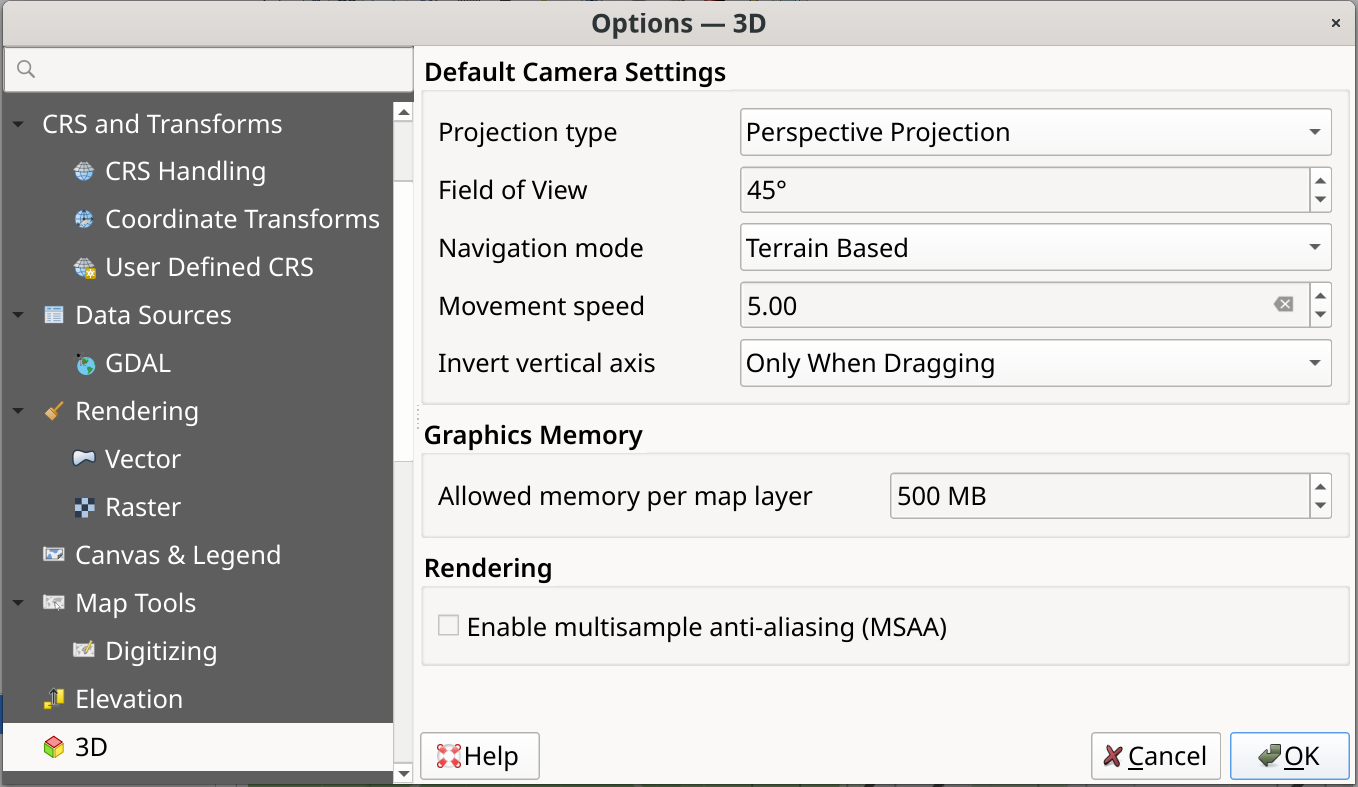
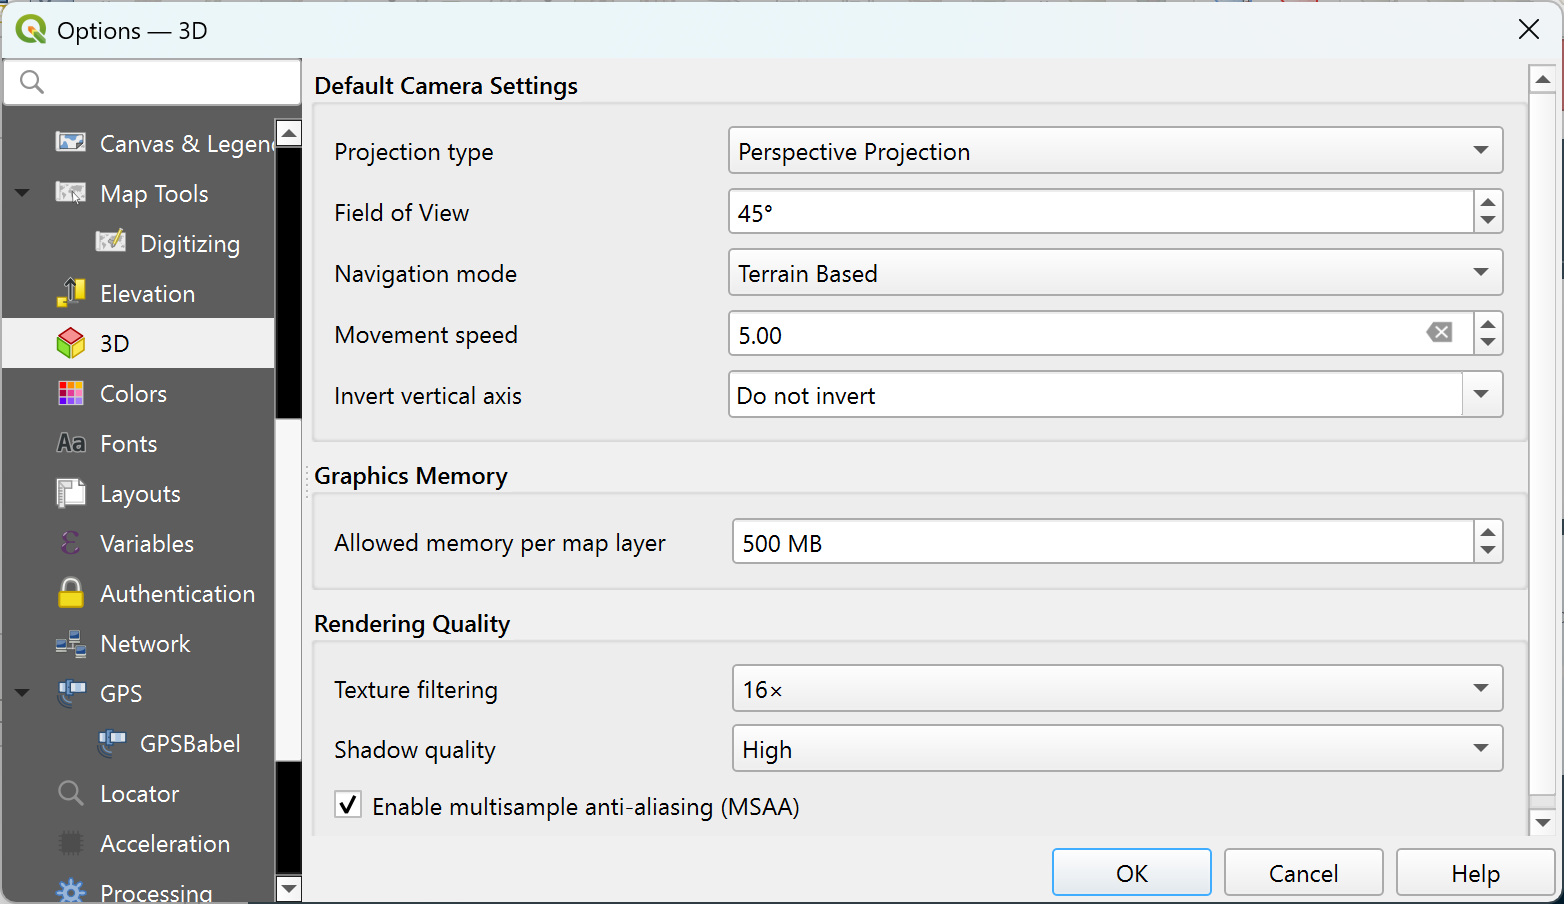
invert vertical axis new scenario

Changed region(s): [[0.0, 0.0, 1.0, 1.0], [0.3402, 0.7319, 0.7113, 0.8539]]

diff --git a/docs/user_manual/introduction/qgis_configuration.rst b/docs/user_manual/introduction/qgis_configuration.rst
@@ -1065,15 +1065,21 @@ for any :guilabel:`3D Map view`. These can refer to:
     Depending on the selected mode, :ref:`navigation commands <3d_navigation>` differ.
   * :guilabel:`Movement speed`
   * :guilabel:`Invert vertical axis`: Controls whether vertical axis movements
-    should be inverted from their normal behaviour. Only affects movement in the
-    :guilabel:`Walk mode`. It can be set to:
+    should be inverted from their normal behaviour. Each of
+    the following scenarios can be enabled or disabled independently:
 
-    * :guilabel:`Never`
-    * :guilabel:`Only when dragging`: causes the vertical motion to inverted only
-      when performing a click-and-drag camera rotation
-    * and :guilabel:`Always`: causes the motions to be inverted when both
-      click-and-dragging and when the camera movement is locked to the cursor
-      (via a :kbd:`~` key press)
+    * :guilabel:`When rotating (mouse captured)`: inverts the vertical
+      camera movement when the cursor is captured
+      in :guilabel:`Walk mode` (activated by pressing :kbd:`~`)
+    * :guilabel:`When rotating (while dragging)`: inverts the vertical
+      camera movement when rotating the camera via click-and-drag in
+      :guilabel:`Walk mode`
+    * :guilabel:`When pivoting around terrain`: inverts the vertical
+      camera movement when rotating the view around a point on the
+      terrain in :guilabel:`Terrain mode`
+
+    By default, none are selected and the axis is not inverted in any
+    navigation mode.
 
 * Under :guilabel:`Graphics memory`, the  :guilabel:`Allowed memory per layer` option
   lets you set the GPU memory limit configuration on each layer.